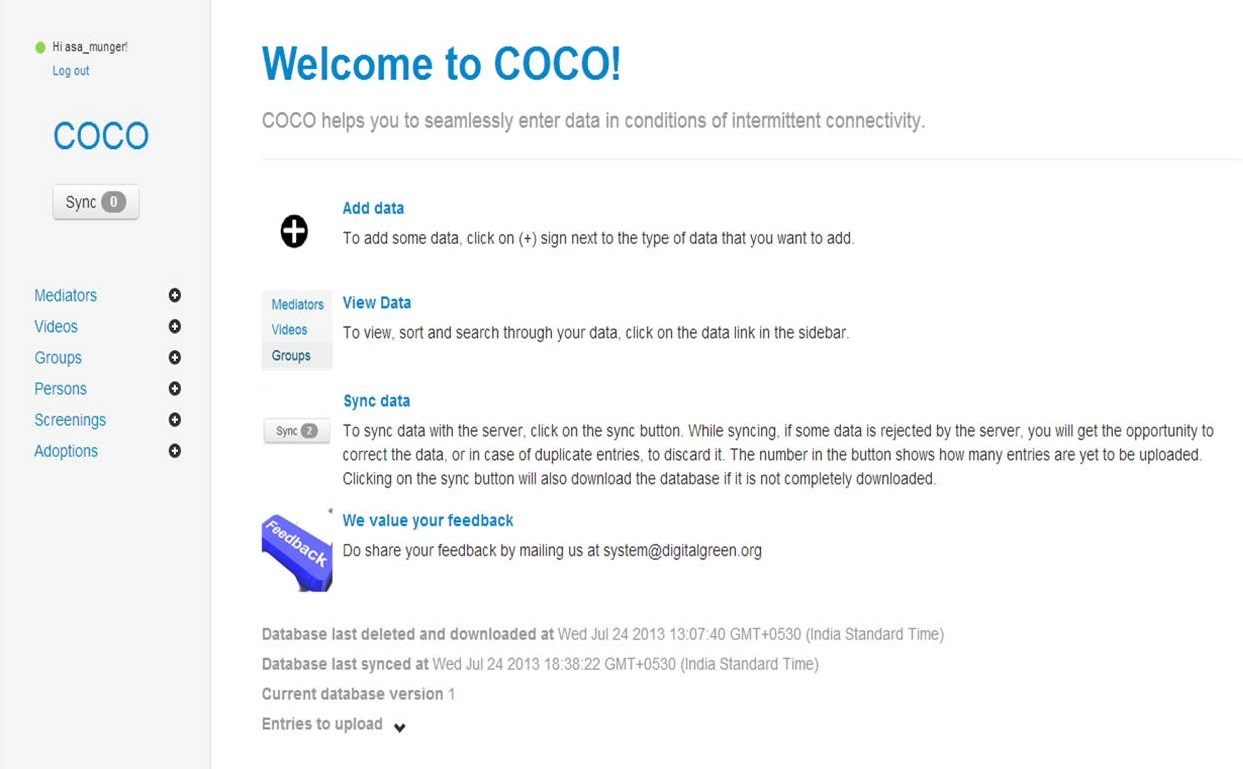
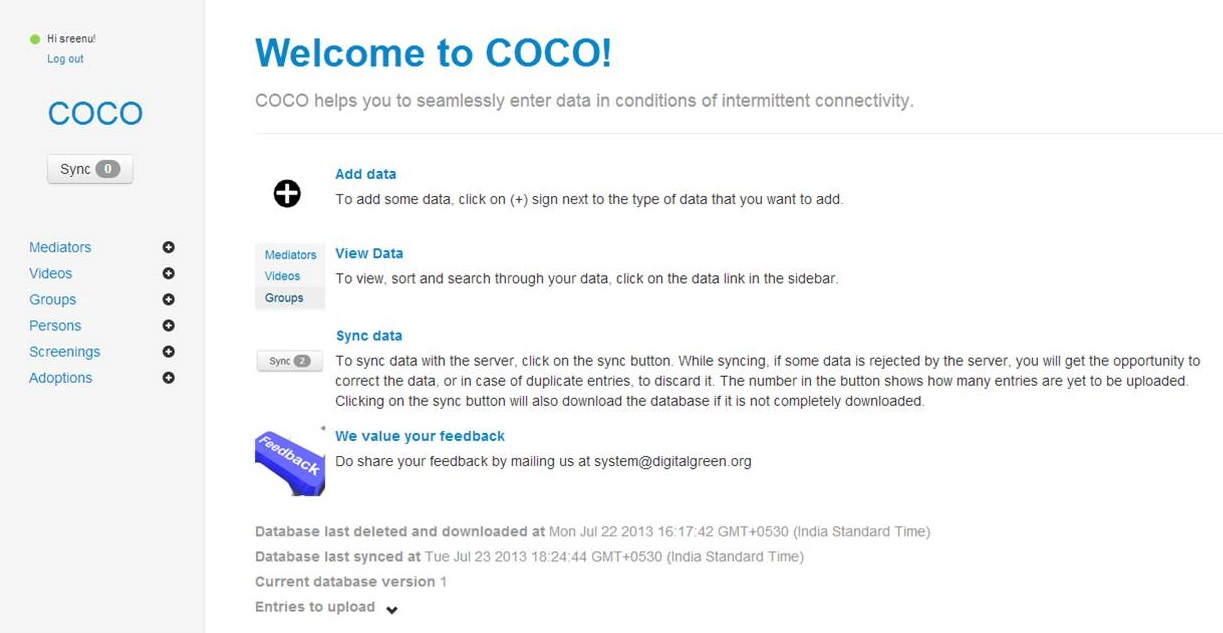
new coco image

diff --git a/dg/templates/social_website/tools.html b/dg/templates/social_website/tools.html
@@ -7,7 +7,7 @@
                     <h2 class="hdg-a hdg-source-lt layout-vr-md">COCO - Connect Online | Connect Offline</h2>
                     <div class="media layout-vr-xlg">
                         <div class="imgExt img-marginLg-lt img-effects img-size-lg">
-                            <img src="{{STATIC_URL}}social_website/content/coco.jpg" alt="" />
+                            <img src="{{STATIC_URL}}social_website/content/coco_v2.jpg" alt="" />
                         </div>
                         <div class="bd copy">
                             <p class="copy-para">A data management framework, COCO, forms the foundation of our technology stack. COCO captures data related to key processes of our model: video production (e.g., practices featured, farmers involved, seasonality), dissemination (e.g., videos screened, attendance, interests expressed, questions), and adoption of practices (e.g., components of practices physically observed on farm, regularity of uptake).
